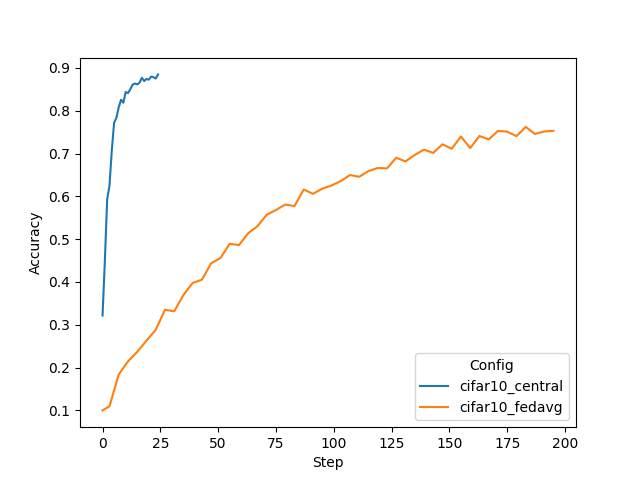
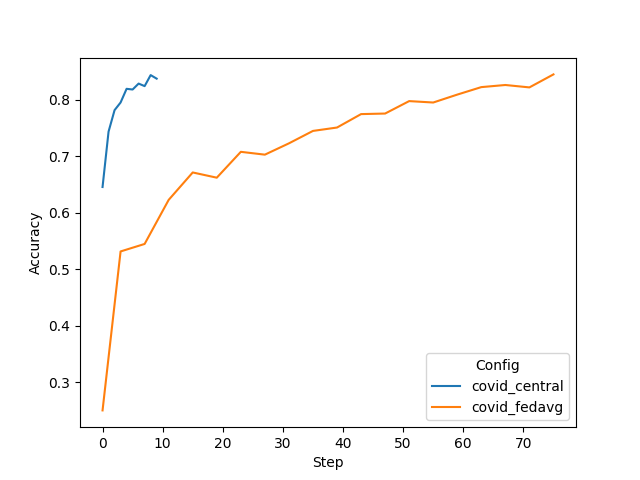
Add plot of central vs fedavg.

diff --git a/covid-sim/figs/plot_tensorboard_events.py b/covid-sim/figs/plot_tensorboard_events.py
@@ -30,6 +30,7 @@ client_results_root = "/tmp/nvflare/sim_covid"
 
 # 4.1 Central vs. FedAvg
 experiments = {"central": {"tag": "val_acc_local_model"}, "fedavg": {"tag": "val_acc_global_model", "alpha": 1.0}}
+fig_name = "central_vs_fedavg.png"
 
 # # 4.2 Impact of client data heterogeneity
 # experiments = {"fedavg (alpha=1.0)": {"tag": "val_acc_global_model", "alpha": 1.0},
@@ -37,13 +38,7 @@ experiments = {"central": {"tag": "val_acc_local_model"}, "fedavg": {"tag": "val
 #               "fedavg (alpha=0.3)": {"tag": "val_acc_global_model", "alpha": 0.3},
 #               "fedavg (alpha=0.1)": {"tag": "val_acc_global_model", "alpha": 0.1}
 # }
-
-# # 4.3 FedProx vs. FedOpt vs. SCAFFOLD
-# experiments = {"fedavg": {"tag": "val_acc_global_model", "alpha": 0.1},
-#               "fedprox": {"tag": "val_acc_global_model", "alpha": 0.1},
-#               "fedopt": {"tag": "val_acc_global_model", "alpha": 0.1},
-#               "scaffold": {"tag": "val_acc_global_model", "alpha": 0.1}
-# }
+# fig_name = "fedavg_alpha.png"
 
 add_cross_site_val = True
 
@@ -95,10 +90,10 @@ def main():
         eventfile = glob.glob(
             os.path.join(client_results_root, config_name, "**", "app_site-1", "events.*"), recursive=True
         )
-        # assert len(eventfile) == 1, f"No unique event file found in {os.path.join(client_results_root, config_name)}!"
-        for ef in eventfile:
-            print("adding", ef)
-            add_eventdata(data, config, ef, tag=exp["tag"])
+        assert len(eventfile) == 1, f"No unique event file found in {os.path.join(client_results_root, config_name)}!"
+        eventfile = eventfile[0]
+        print("adding", eventfile)
+        add_eventdata(data, config, eventfile, tag=exp["tag"])
 
         if add_cross_site_val:
             xsite_file = glob.glob(
@@ -124,6 +119,7 @@ def main():
 
     sns.lineplot(x="Step", y="Accuracy", hue="Config", data=data)
     plt.show()
+    plt.savefig(f"figs/{fig_name}")
 
 
 if __name__ == "__main__":

diff --git a/README.md b/README.md
@@ -103,12 +103,12 @@ One can see that FedAvg can achieve similar performance to central training.
 
 | Config	| Alpha	| 	Val score	| 
 | ----------- | ----------- |  ----------- |
-| covid_central | 1.0	| 	0.894	| 
-| covid_fedavg  | 1.0	| 	0.883	| 
+| covid_central | 1.0	| 	0.83700	| 
+| covid_fedavg  | 1.0	| 	0.82425	| 
 
 ![Central vs. FedAvg](./covid-sim/figs/central_vs_fedavg.png)
 
-### 4.2 Impact of client data heterogeneity
+### 4.2 Impact of client data heterogeneity (Not updated yet)
 
 We also tried different `alpha` values, where lower values cause higher heterogeneity. 
 This can be observed in the resulting performance of the FedAvg algorithms.  
